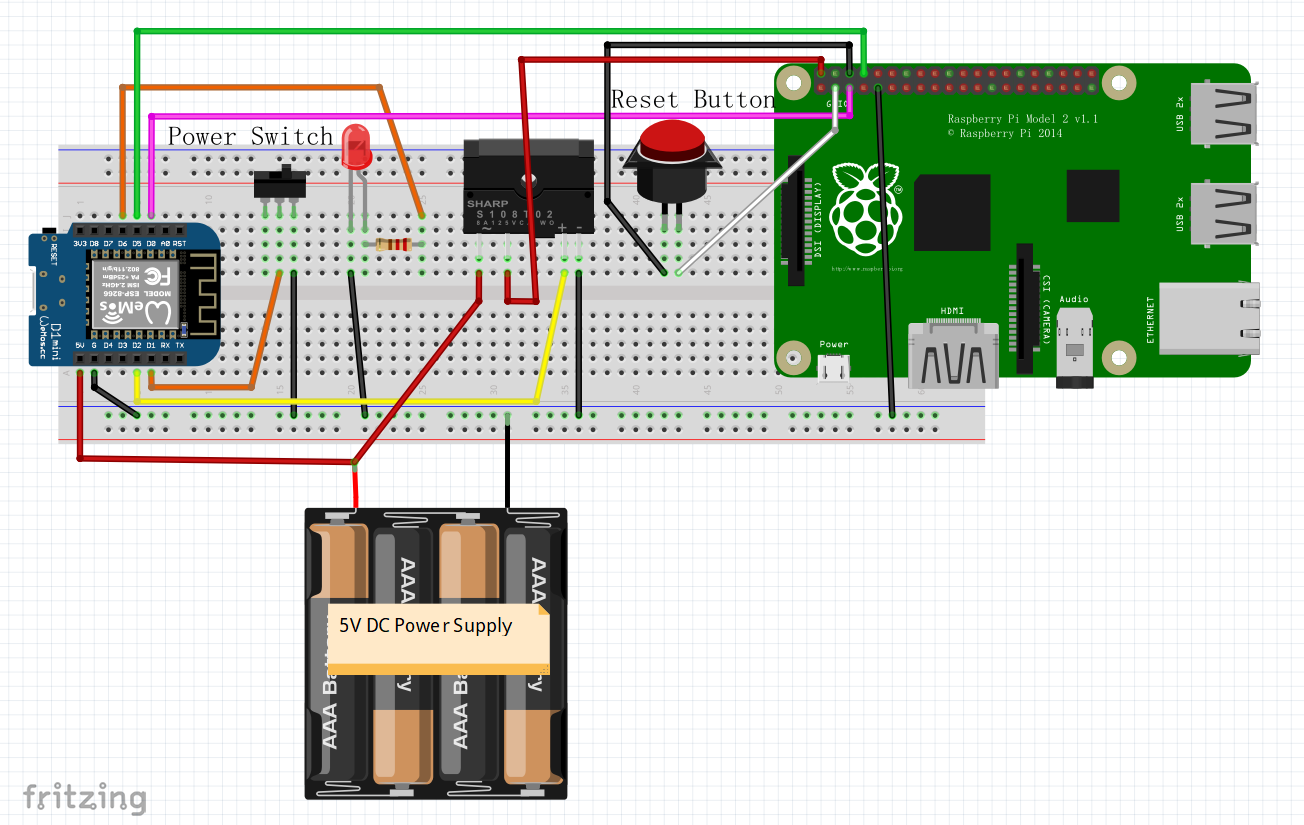
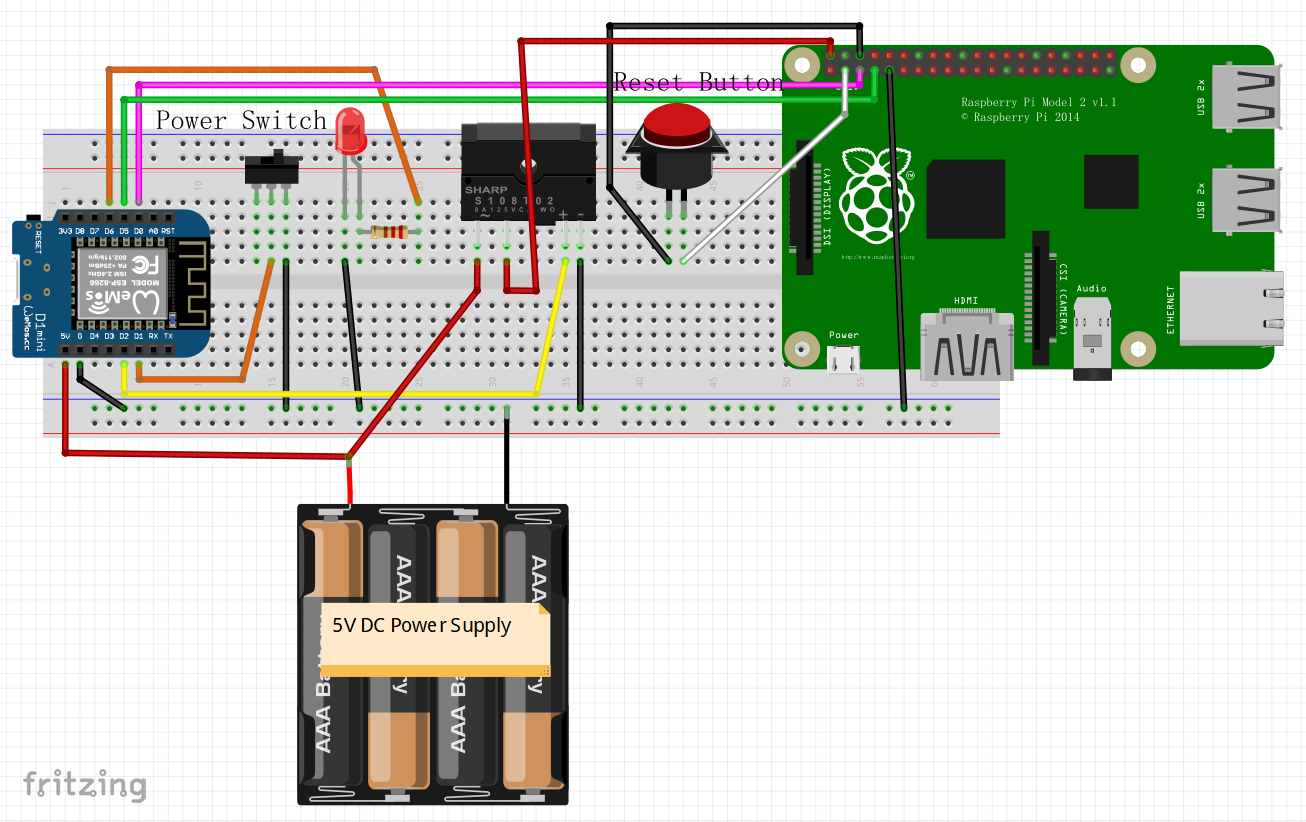
code, readme & wiring diagram updated

Changed region(s): [[0.0, 0.0, 1.0, 1.0], [0.0, 0.9428, 0.1227, 1.0]]

diff --git a/main.py b/main.py
@@ -31,11 +31,11 @@ RPI_POWER_LED_PIN = 12  # (D6), output, wire to an Led along with a resistor
 
 # Edit your rpi /boot/config.txt file and add the following line:
 # enable_uart=1
-RPI_STATUS_CHECK_PIN = 14  # (D5), input, wire to RPI GPIO14 (Pin #8, UART TxD)
+RPI_STATUS_CHECK_PIN = 14  # (D5), input, wire to RPI GPIO4 (Pin #7)
 
 power_sw = Button(POWER_SW_PIN)
 rpi_ssr = machine.Pin(RPI_SSR_PIN, machine.Pin.OUT, value=0)
-rpi_shut_cmd = machine.Pin(RPI_SHUTDOWN_PIN, machine.Pin.OUT, value=1)
+rpi_shutdown_cmd = machine.Pin(RPI_SHUTDOWN_PIN, machine.Pin.OUT, value=1)
 rpi_is_on = machine.Pin(RPI_STATUS_CHECK_PIN, machine.Pin.IN, machine.Pin.PULL_UP).value
 rpi_led = machine.Pin(RPI_POWER_LED_PIN, machine.Pin.OUT, value=0)
 
@@ -47,15 +47,16 @@ def rpi_start_up():
 
 
 def rpi_shut_down():
-    rpi_shut_cmd.value(0)
+    rpi_shutdown_cmd.value(0)
     while True:
         if not rpi_is_on():
-            utime.sleep_ms(30)
+            utime.sleep_ms(500)
             if not rpi_is_on():
                 print('Powering Off')
-                rpi_ssr.off()
                 rpi_led.off()
-                rpi_shut_cmd.value(1)
+                utime.sleep_ms(5000)
+                rpi_ssr.off()
+                rpi_shutdown_cmd.value(1)
                 break
 
 

diff --git a/readme.md b/readme.md
@@ -43,19 +43,10 @@ be bothered by the Recalbox menus, all the necessary operations are just like th
     3. Quit the game (meaning return to the emulator console) so that you can select another game,
     by long press (longer than 1 sec) then release a push button, by which a low signal is sent to RPI GPIO2.
 
-#### Editing ```config.txt```
-* You need to connect to the RPI by SSH.
-* Enter ```mount -o remount,rw /boot``` before editing, otherwise the partition is read-only, and you won't be
-able to save the change.
-* You need to add/uncomment the following line in config.txt:
-```enable_uart=1```
-* By doing so, the RPI GPIO14 (UART0_TXD) is at high level when the RPI is on, and it will go low when the RPI is
-properly shut down, which helps determine the power status of the RPI.
-
 #### Preparing your ESP8266
 * Download the firmware, pls see [here](http://micropython.org/download#esp8266)
 * Flash the firmware, pls see [here](http://docs.micropython.org/en/latest/esp8266/esp8266/tutorial/intro.html#deploying-the-firmware)
-* Transfer ```button.py``` & ```main.py``` in this repo to your ESP8266.  Here is a [tutorial](https://techtutorialsx.com/2017/06/04/esp32-esp8266-micropython-uploading-files-to-the-file-system/)
+* Upload ```button.py``` & ```main.py``` in this repo to your ESP8266.  Here is a [tutorial](https://techtutorialsx.com/2017/06/04/esp32-esp8266-micropython-uploading-files-to-the-file-system/)
 
 
 ## Wiring
@@ -67,7 +58,7 @@ properly shut down, which helps determine the power status of the RPI.
 | GND                |   GND  | Power SW - & Reset BTN -  |  Input -   |   Cathode             |   GND   |
 | GPIO4 (D2)         |        |                           |  Input +   |                       |         |
 | GPIO16 (D0)        |  GPIO3 |                           |            |                       |         |
-| GPIO14 (D5)        | GPIO14 |                           |            |                       |         |
+| GPIO14 (D5)        |  GPIO4 |                           |            |                       |         |
 | GPIO12 (D6)        |        |                           |            | Anode (/w a resistor) |         |
 |                    |  GPIO2 |      Reset BTN +          |            |                       |         |
 |  5V Pin            |        |                           |  Load +    |                       |   5V+   |   
@@ -76,6 +67,32 @@ properly shut down, which helps determine the power status of the RPI.
 * Fritzing Diagram
 
 ![](./pic/wiring.png)
+
+## rpi-pin356-power.py
+* By looking at the [code](#refs) in ```rpi-pin356-power.py``` which you can find under folder ```/recalbox/scripts/``` 
+4 pins on GPIO are definded as following:
+    1. Power Plus, GPIO 3 (pin#5), as the positive of the power switch;
+    2. Reset Plus, GPIO 2 (pin#3), as the positive of the reset push button;
+    3. Led, GPIO 14 (pin#8), as the power status indicator which is intended to wire to an Led.
+    4. The above 3 pins are mentioned in [Add a start stop button to your recalbox](https://github.com/recalbox/recalbox-os/wiki/Add-a-start-stop-button-to-your-recalbox-%28EN%29).
+     However, there is the 4th pin which is not mentioned at all.
+        *  Power En, GPIO 4 (pin#7), this pin stays **LOW** until Recalbox has booted into main menu, and stays **HIGH** until the 
+        Linux system is ***almost*** shut down properly.  So GPIO 4 is a better signal than GPIO 14 to indicate the power
+        status of the RPI.
+
+* So, regarding the wiring of the Led, you have 2 options:
+    1. Let the ESP8266 handle the Led as how I implement in my code.  The Led will be light on as soon as you turn on the
+    power switch to power up the RPI. When you turn off the power switch, the Led will stay light on a little long until
+    the Linux system is properly shut down.
+    2. You can let the RPI handle the Led as it's already implemented in ```rpi-pin356-power.py```.
+    Simply connect the anode of the 3mm Led along with a 76R resistor to GPIO 14, and connect the cathode to GND of RPI.
+
+* One more thing to note: After bringing GPIO 3 to low which shuts down the RPI, as long as you don't disconnect the
+power cable (or USB cable) from the RPI, the GPIO 3 will back to high (Linux shut down while power connected), and you 
+can bring it to low level again to boot up the RPI.  So it seems the ESP8266 is not needed as long as you keep the cable
+cable plugged in.  However, whenever you unplug and plug in the power cable again, the RPI will boot up while the power 
+switch stays at OFF position - it must be very confusing - this is where my project becomes handy.  After all, the purpose
+of this project is to make the Famicom act like a real Famicom, not just properly power on & off.
 
 ## Refs
 * [Make a partition writable](https://github.com/recalbox/recalbox-os/wiki/Make-a-partition-writable-%28EN%29)
@@ -86,4 +103,199 @@ properly shut down, which helps determine the power status of the RPI.
 * [Rotary Encoder via GPIO](https://github.com/recalbox/recalbox-os/wiki/Rotary-Encoder-via-GPIO-%28EN%29)
 * [RPI2 more power to usb ports](https://github.com/recalbox/recalbox-os/wiki/RPI2-more-power-to-usb-ports-%28EN%29)
 * For more info, pls refer to Recalbox Wiki [Mini How To](https://github.com/recalbox/recalbox-os/wiki/Mini-How-To-%28EN%29)
+* Below is a copy of ```rpi-pin356-power.py``` which you can find under folder ```/recalbox/scripts/```
+```python
+import RPi.GPIO as GPIO
+import time
+import os
+import thread
+import datetime
+import socket
+import sys
+import argparse
+import subprocess
+from datetime import datetime
+from configgen import recalboxFiles
+# this last one retrieves emulators bin names
+
+
+parser = argparse.ArgumentParser(description='power manager')
+parser.add_argument("-m", help="mode onoff or push", type=str, required=True)
+args = parser.parse_args()
+mode = args.m
+
+IPADDR = "127.0.0.1"
+PORTNUM = 55355
+# IP and port for retroarch network commands
+
+POWERPLUS = 3
+RESETPLUS = 2
+POWEREN = 4
+LED = 14
+
+GPIO.setwarnings(False)         # no warnings
+GPIO.setmode(GPIO.BCM)          # set up BCM GPIO numbering
+
+GPIO.setup(RESETPLUS, GPIO.IN, pull_up_down=GPIO.PUD_UP)
+# GPIO on pin 3 is the GPIO 2 in BCM mode
+# to Reset+
+
+GPIO.setup(POWERPLUS, GPIO.IN, pull_up_down=GPIO.PUD_UP)
+# GPIO on pin 5 is the GPIO 3 in BCM mode
+# to Power+
+
+GPIO.setup(LED, GPIO.OUT)
+GPIO.output(LED, True)
+# GPIO on pin 8 is the GPIO 14 in BCM mode
+# to LED+
+
+
+# Define a threaded callback function for ONOFF mode
+def onoff_mode(channel):
+    if channel == POWERPLUS:
+        speed = 0.15
+        shutdownstring = "shutdown -h now"
+        offreset(speed, shutdownstring)
+        print('shutdown')
+
+    elif channel == RESETPLUS:
+        timer = 0
+        flag = True
+        while flag:
+            if GPIO.input(channel) is False:
+                timer += 1
+                print('Button pressed')
+            elif GPIO.input(channel) is True:
+                print('Button released')
+                print(timer)
+
+                # timer adds 1 each 0.1 seconds if timer = 10, button is pressed for 1s
+                if (timer > 10):
+                    nwcommand = "QUIT"
+                    retroarch(nwcommand)
+                    print('game exit')
+                    killthatshit()
+                elif (timer > 1):
+                    proces = subprocess.Popen(
+                        ['/bin/sh', '-c', 'ps -ef | grep [e]mulatorlauncher'],
+                        stdout=subprocess.PIPE
+                    )  # Searc$
+                    result = proces.stdout.read()
+                    if result:
+                        nwcommand = "RESET"
+                        retroarch(nwcommand)
+                        print('game reset')
+                    else:
+                        speed = 0.05
+                        shutdownstring = "shutdown -r now"
+                        offreset(speed, shutdownstring)
+                        print('reboot')
+
+                timer = 0
+                flag = False
+                time.sleep(0.1)
+
+
+# Define a threaded callback function for PUSH mode
+def push_mode(channel):
+    if channel == POWERPLUS:
+        speed = 0.15
+        shutdownstring = "shutdown -h now"
+        nwcommand = "QUIT"
+
+    elif channel == RESETPLUS:
+        speed = 0.05
+        shutdownstring = "shutdown -r now"
+        # Changed from 'RESET' to 'QUIT' by Kaiyuan
+        # nwcommand="RESET"
+        nwcommand = "QUIT"
+
+        timer = 0
+        flag = True
+        while flag:
+            if GPIO.input(channel) is False:
+                timer += 1
+                print('Button pressed')
+            elif GPIO.input(channel) is True:
+
+                print('Button released')
+                print(timer)
+
+                # timer adds 1 each 0.1 seconds if timer = 10, button is pressed for 1s
+                if (timer > 10):
+                    offreset(speed, shutdownstring)
+                    print('shutdown')
+                elif (timer > 1):
+                    retroarch(nwcommand)
+                    print('retroarch')
+                    if channel == POWERPLUS:
+                        killthatshit()
+
+                timer = 0
+                flag = False
+            time.sleep(0.1)
+
+
+# trying to kill all listed emus
+def killthatshit():
+    for name in recalboxFiles.recalboxBins:
+        bin = recalboxFiles.recalboxBins[name]
+        print(bin)
+        proc = os.path.basename(bin)
+        print(proc)
+        os.system("killall -9 "+proc)
+
+
+# clean stop of ES then shutdown -h or -r
+def offreset(speed, shutdownstring):
+    thread.start_new_thread(blink, (speed, ))
+    flag = True
+    pids = [pid for pid in os.listdir('/proc') if pid.isdigit()]
+    os.system("/etc/init.d/S31emulationstation stop")
+    while flag:
+        flag = False
+        for pid in pids:
+            try:
+                print(pid)
+                commandpath = open(os.path.join('/proc', pid, 'cmdline'), 'rb').read()
+                if "emulationstation" in commandpath:
+                    flag = True
+            except IOError:
+                continue
+    os.system(shutdownstring)
+
+
+# threaded blinking function for LED
+def blink(speed):
+    while True:
+        GPIO.output(LED, False)
+        time.sleep(speed)
+        GPIO.output(LED, True)
+        time.sleep(speed)
+
+
+# sending network command to retroarch (only exit and reset atm)
+def retroarch(nwcommand):
+    try:
+        s = socket.socket(socket.AF_INET, socket.SOCK_DGRAM)
+    except socket.error:
+        print('Failed to create socket')
+        sys.exit()
+    s.sendto(nwcommand, (IPADDR, PORTNUM))
+
+
+if mode == "onoff":
+    # Allow Nespi+ to detect the end of the shutdown for proper power-off
+    GPIO.setup(POWEREN, GPIO.OUT)
+    GPIO.output(POWEREN, True)
+    GPIO.add_event_detect(POWERPLUS, GPIO.FALLING, callback=onoff_mode, bouncetime=2)
+    GPIO.add_event_detect(RESETPLUS, GPIO.BOTH, callback=onoff_mode, bouncetime=2)
+elif mode == "push":
+    GPIO.add_event_detect(POWERPLUS, GPIO.BOTH, callback=push_mode, bouncetime=2)
+    GPIO.add_event_detect(RESETPLUS, GPIO.BOTH, callback=push_mode, bouncetime=2)
+
+while True:
+    time.sleep(0.2)
+
+```
 
